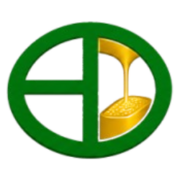
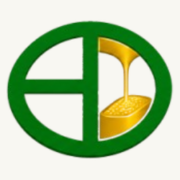
Usar logotipo oficial em PNG transparente, sem placa branca
- Substitui o logotipo pela versão transparente fornecida (proporções e cores originais)
- Remove a placa branca no cabeçalho, rodapé, menu mobile e backoffice
- Halo luminoso muito suave apenas sobre fundos escuros, para legibilidade
- Favicon a partir do emblema transparente

Claude-Session: https://claude.ai/code/session_01XthCssx5LjvWVwhRj7bbta

diff --git a/src/components/layout/Logo.tsx b/src/components/layout/Logo.tsx
@@ -2,22 +2,33 @@ import { Link } from 'react-router-dom'
 import { brand } from '../../content/site'
 import { useLang } from '../../i18n/LanguageContext'
 
+/** Halo luminoso muito suave para legibilidade sobre fundos escuros (sem caixa nem placa). */
+const darkFilter =
+  'drop-shadow(0 0 0.35px rgba(255,255,255,0.7)) drop-shadow(0 0 8px rgba(255,255,255,0.28)) drop-shadow(0 0 24px rgba(232,198,106,0.18))'
+
 /**
- * Logotipo oficial, usado sem alterar proporções nem cores (fundo branco original).
- * Sobre fundos escuros é apresentado numa placa branca para manter o contraste.
+ * Logotipo oficial em PNG transparente, sem alterar proporções nem cores.
+ * `tone="dark"` aplica apenas um halo subtil quando o fundo é escuro.
  */
-export function Logo({ size = 'md', plate = true, className = '' }: { size?: 'sm' | 'md' | 'lg'; plate?: boolean; className?: string }) {
+export function Logo({ size = 'md', tone = 'light', className = '' }: { size?: 'sm' | 'md' | 'lg'; tone?: 'light' | 'dark'; className?: string }) {
   const { t, lang } = useLang()
-  const h = size === 'sm' ? 'h-11 sm:h-12' : size === 'lg' ? 'h-24 sm:h-28' : 'h-12 sm:h-[3.75rem]'
+  const h = size === 'sm' ? 'h-11 sm:h-12' : size === 'lg' ? 'h-24 sm:h-28' : 'h-14 sm:h-16 xl:h-[4.5rem]'
   return (
     <Link
       to="/"
-      className={`group inline-flex shrink-0 items-center focus-visible:outline-none focus-visible:ring-2 focus-visible:ring-gold focus-visible:ring-offset-2 ${plate ? 'bg-white px-2.5 py-1.5 shadow-[0_8px_30px_-12px_rgba(0,0,0,0.45)]' : ''} transition-[padding,box-shadow] duration-700 ease-lux ${className}`}
+      className={`group inline-flex shrink-0 items-center focus-visible:outline-none focus-visible:ring-2 focus-visible:ring-gold focus-visible:ring-offset-4 ${className}`}
       aria-label={`${t(brand.name)} — ${brand.group}, ${lang === 'pt' ? 'página inicial' : 'home page'}`}
     >
       <picture>
         <source type="image/webp" srcSet={brand.logoSrc.replace(/\.png$/, '.webp')} />
-        <img src={brand.logoSrc} alt="" width={693} height={410} className={`${h} w-auto transition-[height] duration-700 ease-lux`} />
+        <img
+          src={brand.logoSrc}
+          alt=""
+          width={695}
+          height={413}
+          style={{ filter: tone === 'dark' ? darkFilter : 'none' }}
+          className={`${h} w-auto transition-[height,filter] duration-700 ease-lux`}
+        />
       </picture>
     </Link>
   )

diff --git a/src/admin/AdminApp.tsx b/src/admin/AdminApp.tsx
@@ -181,7 +181,7 @@ export default function AdminApp() {
       <div className="flex">
         <aside className="sticky top-0 hidden h-screen w-64 shrink-0 flex-col bg-forest-900 text-ivory md:flex">
           <div className="px-6 py-6">
-            <img src="/brand/logo.png" alt="Refinaria de Ouro de Angola — Grupo ENDIAMA" className="h-16 w-auto bg-white p-2" />
+            <img src="/brand/logo.png" alt="Refinaria de Ouro de Angola — Grupo ENDIAMA" className="h-16 w-auto" style={{ filter: 'drop-shadow(0 0 0.35px rgba(255,255,255,0.7)) drop-shadow(0 0 8px rgba(255,255,255,0.28))' }} />
             <p className="mt-3 text-[0.6rem] uppercase tracking-[0.3em] text-gold">Backoffice</p>
           </div>
           <nav aria-label="Secções do backoffice" className="flex-1 overflow-y-auto">

diff --git a/src/components/layout/MobileMenu.tsx b/src/components/layout/MobileMenu.tsx
@@ -31,7 +31,7 @@ export function MobileMenu({ open, onClose, onSearch }: { open: boolean; onClose
           transition={{ duration: 0.7, ease }}
         >
           <div className="flex items-center justify-between px-5 py-5 sm:px-8">
-            <Logo size="sm" />
+            <Logo size="sm" tone="dark" />
             <div className="flex items-center gap-6">
               <LangSwitch light />
               <button type="button" onClick={onClose} className="text-[0.7rem] font-semibold uppercase tracking-[0.2em] text-gold-light focus-visible:outline-none focus-visible:ring-2 focus-visible:ring-gold">

diff --git a/src/components/layout/Footer.tsx b/src/components/layout/Footer.tsx
@@ -20,7 +20,7 @@ export function Footer() {
       <div className="mx-auto max-w-site px-5 pb-10 pt-20 sm:px-8 lg:px-12 lg:pt-28">
         <div className="grid gap-14 lg:grid-cols-12">
           <div className="lg:col-span-4">
-            <Logo size="lg" />
+            <Logo size="lg" tone="dark" />
             <p className="mt-8 max-w-sm font-display text-2xl leading-snug text-ivory/85">{u('footerTagline')}</p>
             <div className="mt-10">
               <p className="text-[0.65rem] font-semibold uppercase tracking-eyebrow text-gold">{u('officialContacts')}</p>

diff --git a/src/components/layout/Header.tsx b/src/components/layout/Header.tsx
@@ -64,7 +64,7 @@ export function Header() {
         onKeyDown={(e) => { if (e.key === 'Escape') setOpen(null) }}
       >
         <div className="mx-auto flex max-w-site items-center justify-between gap-6 px-5 sm:px-8 lg:px-12">
-          <Logo size={scrolled ? 'sm' : 'md'} plate={!scrolled} />
+          <Logo size={scrolled ? 'sm' : 'md'} tone={scrolled ? 'light' : 'dark'} />
 
           <nav aria-label={t({ pt: 'Navegação principal', en: 'Main navigation' })} className="hidden min-[1360px]:block">
             <ul className="flex items-center">

diff --git a/src/content/site.ts b/src/content/site.ts
@@ -4,7 +4,7 @@ import { path } from './routes'
 export const brand = {
   name: { pt: 'Refinaria de Ouro de Angola', en: 'Angola Gold Refinery' } as L,
   group: 'Grupo ENDIAMA',
-  /** Logotipo oficial (original em assets-src/brand/logo-original.png). */
+  /** Logotipo oficial em PNG transparente (original em assets-src/brand/logo-transparent.png). */
   logoSrc: '/brand/logo.png',
 }
 

diff --git a/README.md b/README.md
@@ -65,12 +65,12 @@ clientes, parceiros nem números.
 
 ## Logotipo
 
-Logotipo oficial em `public/brand/logo.png` (+ `logo.webp`), obtido do original fornecido
-(`assets-src/brand/logo-original.png`) apenas com recorte das margens brancas — sem alteração de proporções nem
-cores. Como o original tem fundo branco, sobre fundos escuros (hero, rodapé, menu mobile) é apresentado numa placa
-branca. O favicon (`public/favicon.png`, `apple-touch-icon.png`) usa o emblema do logotipo.
-Caminho configurável em `src/content/site.ts` (`brand.logoSrc`). Para máxima nitidez, recomenda-se substituir por
-uma versão vectorial (SVG) oficial quando disponível.
+Logotipo oficial em PNG transparente: `public/brand/logo.png` (+ `logo.webp` com transparência), obtido do ficheiro
+fornecido (`assets-src/brand/logo-transparent.png`) apenas com recorte das margens vazias — sem alteração de
+proporções nem cores. Não há caixa nem placa por trás do logotipo. Sobre fundos escuros (hero, rodapé, menu mobile)
+o componente `Logo` com `tone="dark"` aplica apenas um halo luminoso muito suave (CSS `drop-shadow`) para
+legibilidade. O favicon usa o emblema transparente. Caminho configurável em `src/content/site.ts` (`brand.logoSrc`).
+Recomenda-se uma versão vectorial (SVG) oficial quando disponível.
 
 ## Imagens e créditos
 
